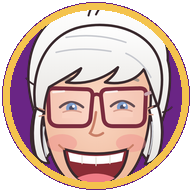
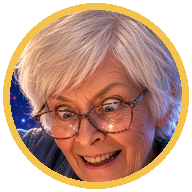
Use Peter's art of Helene instead of the drawn caricature: new cover (cover.png/cover-anim.gif), start-screen art over the chest (helene-title.jpg), framed portrait beside the board that cheers on matches/combos/level clears (helene.jpg), face badge (helene-face.png); helene.png removed; gameplay, d

diff --git a/helene.js b/helene.js
@@ -1,9 +1,10 @@
-/* Helene cheers you on: her caricature sits beside the board (in free space only, never over the jewels),
+/* Helene cheers you on: her portrait (Peter's art of Helene) sits beside the board (in free space only, never over the jewels),
    bounces and says something kind on every GREAT!/COMBO callout and when a level is complete. */
 (()=>{const $=id=>document.getElementById(id),app=$('app');if(!app)return;
 const st=document.createElement('style');st.textContent=`
 #helBud{position:absolute;z-index:12;pointer-events:none;display:none;align-items:flex-end;gap:6px}
-#helBud img{display:block;height:100%;width:auto;filter:drop-shadow(0 4px 6px rgba(0,0,0,.55));transform-origin:50% 100%;animation:hbIdle 3.2s ease-in-out infinite}
+#helBud img{display:block;height:100%;width:auto;box-sizing:border-box;border:3px solid #f4c34d;border-radius:16px;box-shadow:0 0 0 2px #6b3a00,0 4px 12px rgba(0,0,0,.6),0 0 16px rgba(255,210,80,.35);transform-origin:50% 100%;animation:hbIdle 3.2s ease-in-out infinite}
+#helBud.face img{border:0;border-radius:50%;box-shadow:0 3px 8px rgba(0,0,0,.6)}
 #helBud.face .hb{font-size:17px;padding:5px 10px;white-space:nowrap}
 #helBud.cheer img{animation:hbCheer .7s cubic-bezier(.2,1.6,.4,1) 2}
 #helBud .hb{align-self:center;max-width:170px;padding:8px 12px;border-radius:18px;background:#fffaf0;border:3px solid #f4c34d;color:#4a1767;font:800 19px/1.15 system-ui,-apple-system,"Segoe UI",Roboto,Arial,sans-serif;box-shadow:0 3px 0 #6b3a00;opacity:0;transform:scale(.6);transition:opacity .2s,transform .25s cubic-bezier(.2,1.6,.4,1);position:relative}
@@ -14,9 +15,10 @@ const st=document.createElement('style');st.textContent=`
 html.q0 #helBud img{animation:none!important}
 @media (prefers-reduced-motion:reduce){#helBud img{animation:none!important}}
 #lvlH::before,#ttl .a::before{content:"";display:inline-block;width:1.9em;height:1.9em;margin-right:.3em;vertical-align:middle;background:url(helene-face.png) center/contain no-repeat;filter:none}
-#ttl .a::before{width:2.2em;height:2.2em}`;document.head.appendChild(st);
+#ttl .a::before{width:2.2em;height:2.2em}
+#titleCard .tl{position:relative}#helArt{position:absolute;display:none;object-fit:cover;object-position:50% 30%;border-radius:16px;border:3px solid #f4c34d;box-sizing:border-box;box-shadow:0 0 0 2px #6b3a00,0 0 22px rgba(255,210,80,.45);pointer-events:none}`;document.head.appendChild(st);
 const el=document.createElement('div');el.id='helBud';el.setAttribute('aria-hidden','true');
-el.innerHTML='<div class="hb"></div>';const im=new Image();im.src='helene.png';im.alt='';im.width=215;im.height=380;el.insertBefore(im,el.firstChild);
+el.innerHTML='<div class="hb"></div>';const im=new Image();im.src='helene.jpg';im.alt='';im.width=240;im.height=300;el.insertBefore(im,el.firstChild);
 const fx=$('fxc');app.insertBefore(el,fx||null);
 const R=e=>e.getBoundingClientRect(),tt=$('titleOv');let key='';
 function place(){const ctl=$('ctl'),top=$('top'),wrap=$('wrap');if(!ctl||!wrap)return;const A=R(app),c=R(ctl),t=R(top),w=R(wrap);
@@ -26,8 +28,8 @@ function place(){const ctl=$('ctl'),top=$('top'),wrap=$('wrap');if(!ctl||!wrap)r
  const C=land?[mid,below,above]:[below,above];const pick=C.find(b=>b[3]-b[2]>=84)||C.find(b=>b[3]-b[2]>=40);
  const k=pick?pick.map(Math.round).join(','):'none';if(k===key)return;key=k;
  if(!pick){el.style.display='none';return}
- [x0,x1,y0,y1]=pick;const face=y1-y0<84,h=Math.round(Math.min(y1-y0,face?64:190)),iw=face?h:Math.round(h*215/380),bw=Math.min(face?150:170,Math.max(0,x1-x0-iw-24));
- const src=face?'helene-face.png':'helene.png';if(!im.src.endsWith(src))im.src=src;el.classList.toggle('face',face);
+ [x0,x1,y0,y1]=pick;const face=y1-y0<84,h=Math.round(Math.min(y1-y0,face?64:180)),iw=face?h:Math.round(h*240/300),bw=Math.min(face?150:170,Math.max(0,x1-x0-iw-24));
+ const src=face?'helene-face.png':'helene.jpg';if(!im.src.endsWith(src))im.src=src;el.classList.toggle('face',face);
  el.style.display='flex';el.style.height=h+'px';el.style.top=Math.round(y0+(y1-y0-h)/2)+'px';
  el.querySelector('.hb').style.display=bw>=90?'':'none';el.querySelector('.hb').style.maxWidth=bw+'px';
  const tw=iw+(bw>=90?bw+6:0);el.style.left=Math.round(x0+Math.max(0,(x1-x0-tw)/2))+'px'}
@@ -43,5 +45,9 @@ if(tt)new MutationObserver(()=>{const on=tt.classList.contains('on');key='';plac
 const rp=()=>{key='';place()};addEventListener('resize',()=>setTimeout(rp,60));addEventListener('orientationchange',()=>[120,400,900].forEach(t=>setTimeout(rp,t)));
 if(window.visualViewport)visualViewport.addEventListener('resize',()=>setTimeout(rp,60));
 setInterval(place,1000);setTimeout(rp,50);
+const ch=$('chest'),art=new Image();art.id='helArt';art.src='helene-title.jpg';art.alt="Helene reaching for sparkling jewels";
+if(ch&&ch.parentNode){ch.parentNode.insertBefore(art,ch);const fit=()=>{const vis=ch.offsetWidth>0&&getComputedStyle(ch).display!=='none';art.style.display=vis?'block':'none';ch.style.opacity=vis?'0':'';if(!vis)return;
+ const w=ch.offsetWidth,h=Math.round(w*402/720);art.style.width=w+'px';art.style.height=Math.max(h,ch.offsetHeight)+'px';art.style.left=ch.offsetLeft+'px';art.style.top=(ch.offsetTop+(ch.offsetHeight-Math.max(h,ch.offsetHeight))/2)+'px'};
+ if(window.ResizeObserver)new ResizeObserver(fit).observe(ch);addEventListener('resize',()=>setTimeout(fit,80));setInterval(fit,1000);fit()}
 window.HELENE={say,place:rp};
 })();

diff --git a/sw.js b/sw.js
@@ -1,4 +1,4 @@
-const P='helenes-treasure-chest-',V=P+'v10',FILES=['./','index.html','logic.js','art.js','gfx.js','helene.js','helene.png','helene-face.png','manifest.json','icon-192.png','icon-512.png'];
+const P='helenes-treasure-chest-',V=P+'v11',FILES=['./','index.html','logic.js','art.js','gfx.js','helene.js','helene.jpg','helene-face.png','helene-title.jpg','manifest.json','icon-192.png','icon-512.png'];
 self.addEventListener('install',e=>{e.waitUntil(caches.open(V).then(c=>c.addAll(FILES)));self.skipWaiting()});
 self.addEventListener('activate',e=>{e.waitUntil(caches.keys().then(k=>Promise.all(k.filter(n=>n!=V&&n.startsWith(P)).map(n=>caches.delete(n)))).then(()=>self.clients.claim()))});
 self.addEventListener('fetch',e=>{if(e.request.method!='GET'||new URL(e.request.url).origin!==location.origin)return;e.respondWith(fetch(e.request).then(r=>{if(r.ok){const cp=r.clone();caches.open(V).then(c=>c.put(e.request,cp))}return r}).catch(()=>caches.open(V).then(c=>c.match(e.request,{ignoreSearch:true}).then(r=>r||(e.request.mode=='navigate'?c.match('./'):undefined)))))});

diff --git a/README.md b/README.md
@@ -8,5 +8,5 @@ A free, family-friendly jewel-matching (match-3) game from Peter's Arcade. Play:
 - Hints after 6 s idle or on demand, automatic reshuffle when stuck, invalid swaps bounce back free.
 - Big gems, 18px+ text, 48px+ buttons, gentle synthesized sounds with mute, progress and bests saved on the device.
 - Visuals (v9, gfx.js): animated bokeh background, velvet board, glowing jewels with distinct shapes (Ruby is a heart), glow/shard bursts, coins that fly to the score, big COMBO callouts, gentle shake on big combos, a chest that opens with confetti on level clear. Effects step down automatically on slow phones (add ?lite=1 or ?q=0 to force lighter modes).
-- Helene herself (v10, helene.js): a friendly cartoon of Helene holding her treasure chest is on the cover and stands beside the board, cheering on every GREAT!/COMBO and level clear (only in free space, never over the jewels; a round face badge on small screens). Her face is also on the title and Level Complete cards.
+- Helene herself (v11, helene.js, Peter's art of Helene): she is on the cover and the start screen, and her portrait stands beside the board, cheering on every GREAT!/COMBO and level clear (only in free space, never over the jewels; a round face badge on small screens). Her face is also on the title and Level Complete cards.
 - All art is drawn in code (art.js) or by hand for this game; no third-party assets. PWA with offline service worker.
